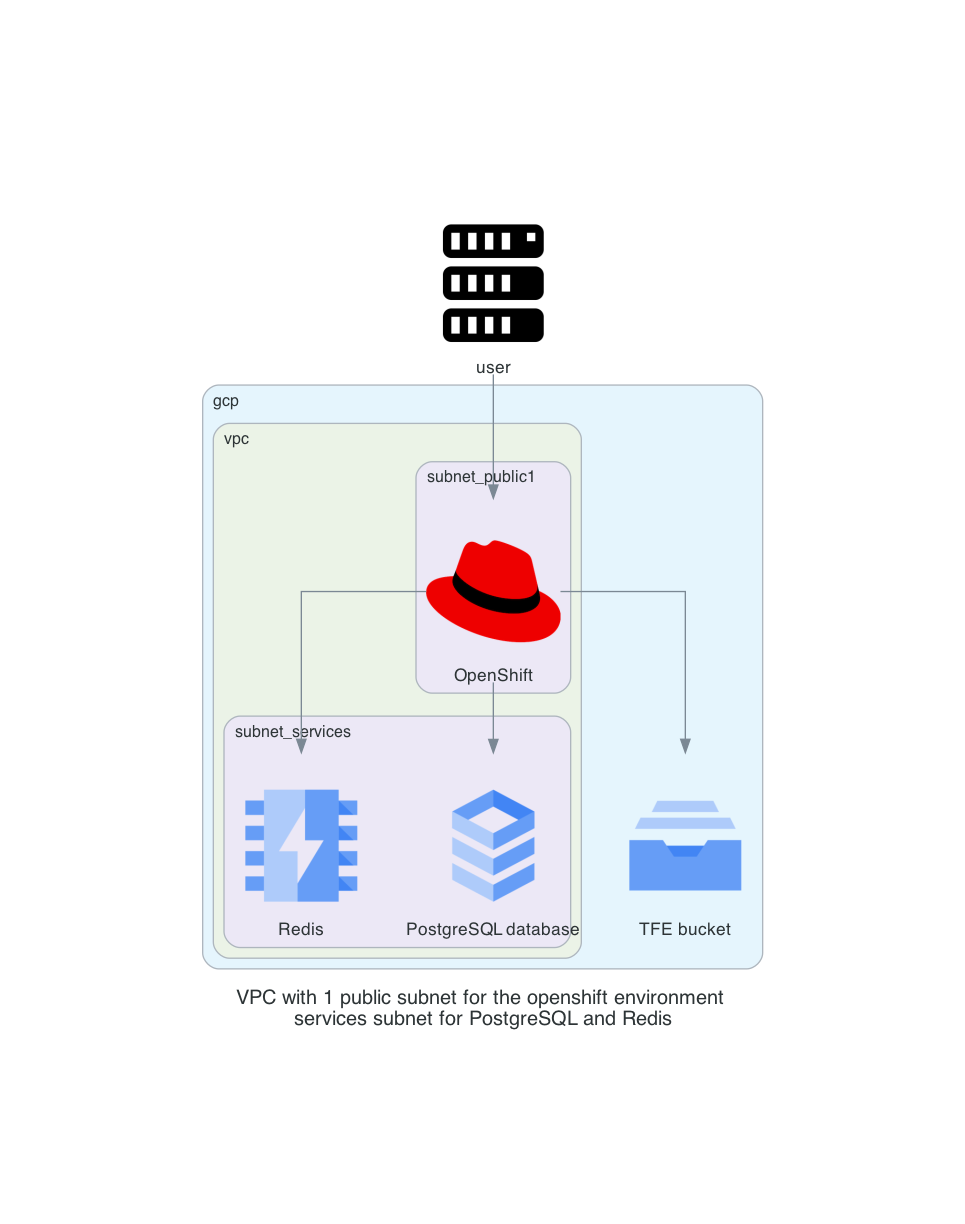
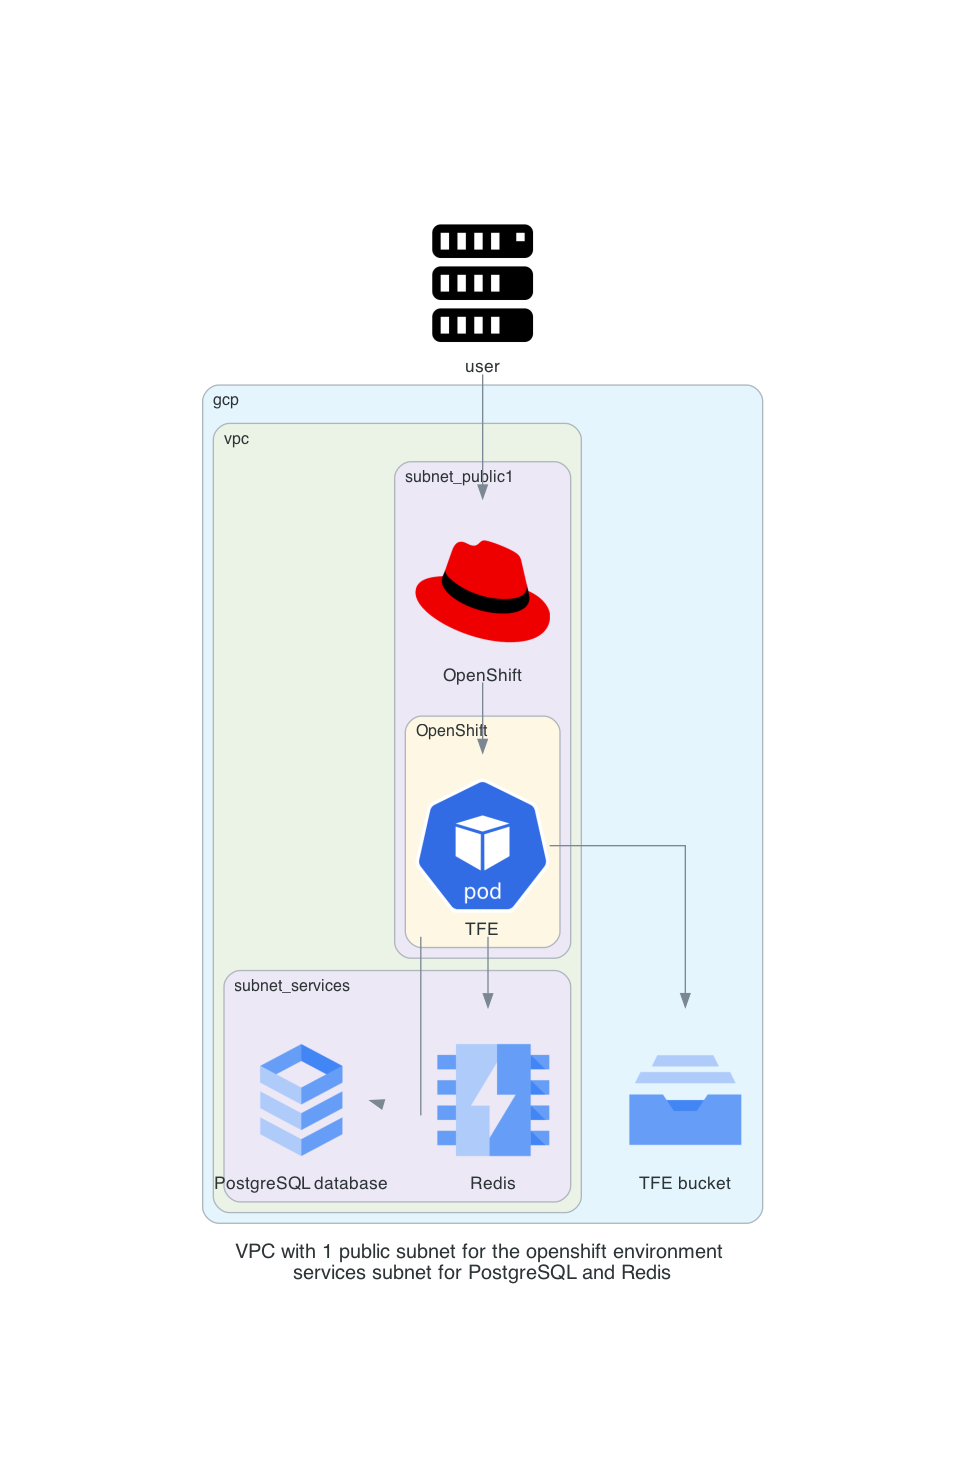
update diagram

Changed region(s): [[0.1865, 0.1242, 0.8083, 0.8693]]

diff --git a/diagram/diagram_tfe_fdo_gcp_external_openshift.py b/diagram/diagram_tfe_fdo_gcp_external_openshift.py
@@ -6,6 +6,7 @@ from diagrams.gcp.compute import ComputeEngine
 from diagrams.gcp.database import SQL, Memorystore
 from diagrams.gcp.storage import Filestore
 from diagrams.generic.os  import RedHat
+from diagrams.k8s.compute import Pod
 
 
 # Variables
@@ -29,6 +30,8 @@ with Diagram(
         with Cluster("vpc"):
           with Cluster("subnet_public1"):
             OpenShift = RedHat("OpenShift")
+            with Cluster("OpenShift"):
+              TFE = Pod("TFE")
           with Cluster("subnet_services"):
             postgresql = SQL("PostgreSQL database")
             redis = Memorystore("Redis")
@@ -36,7 +39,7 @@ with Diagram(
                
     # Diagram
 
-    user >> OpenShift >> [postgresql,
+    user >> OpenShift >> TFE >> [postgresql,
                                  bucket,
                                  redis]
    
